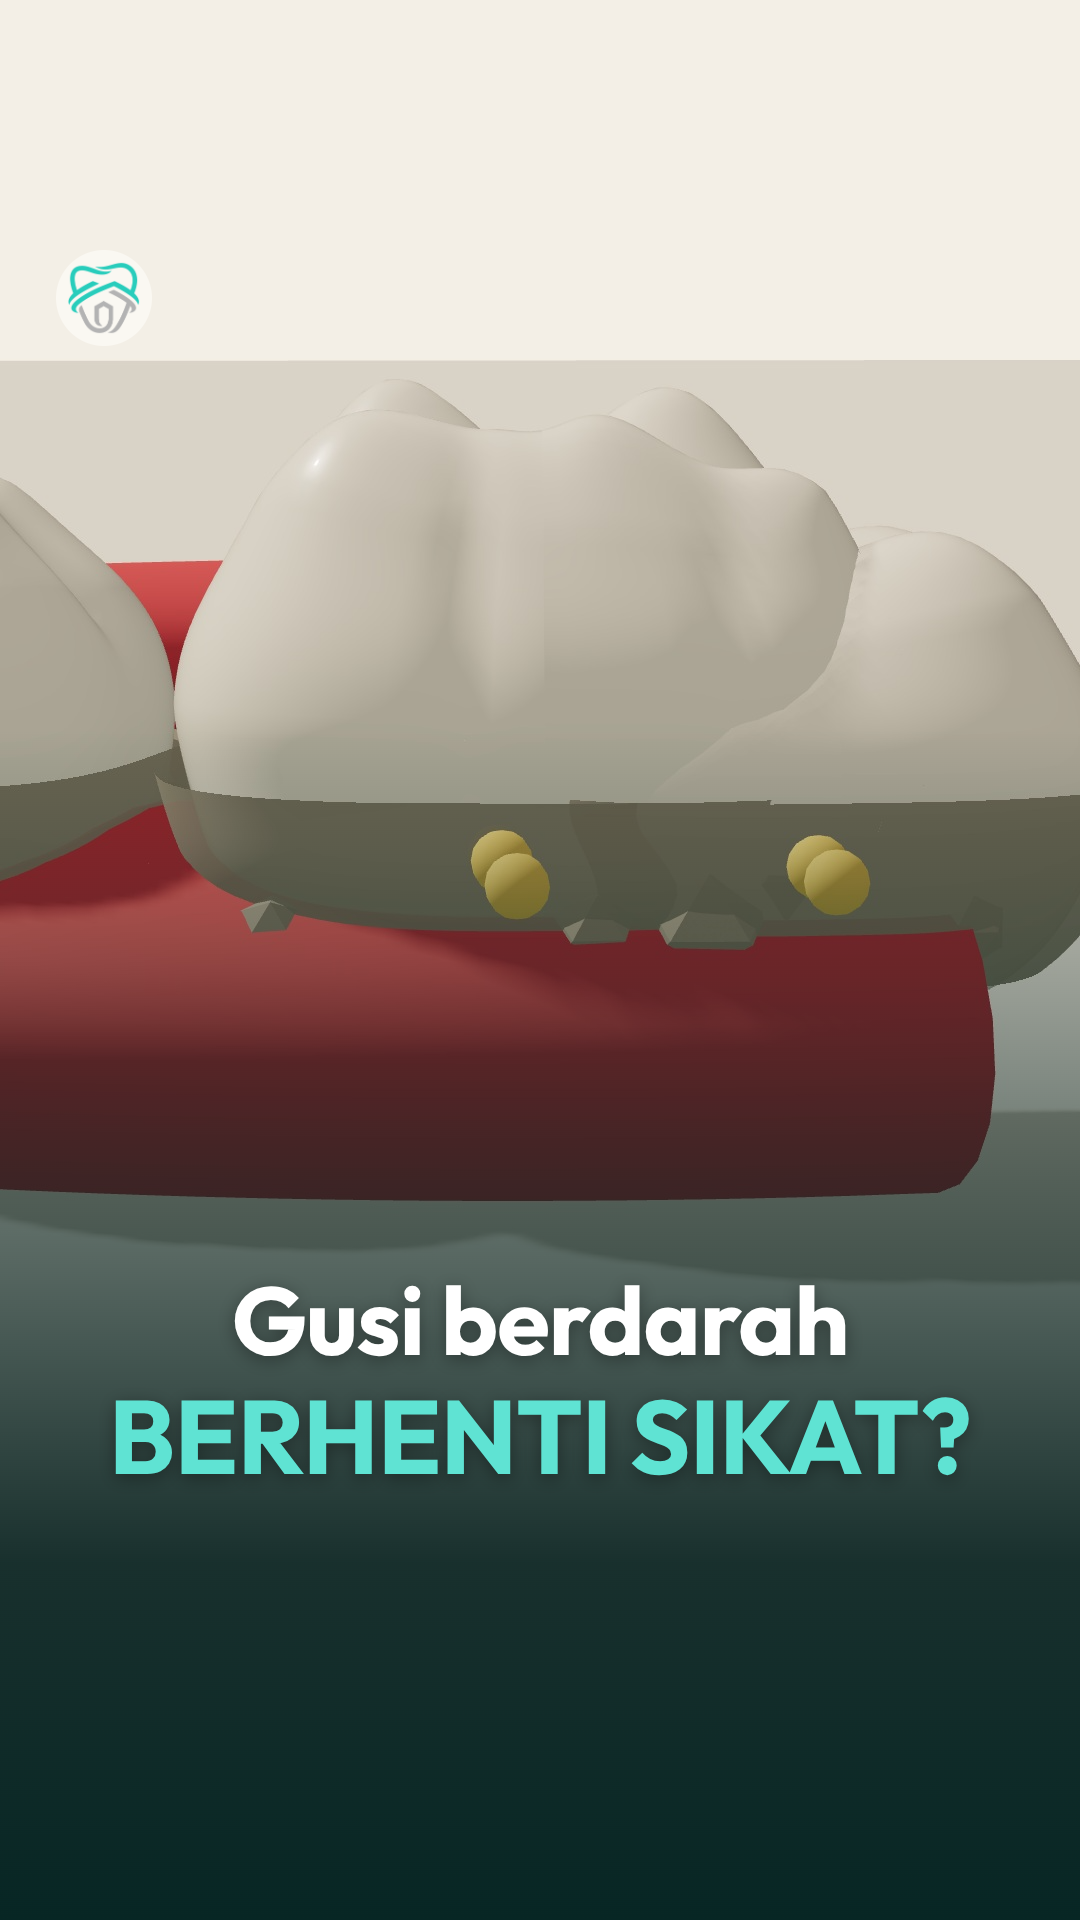
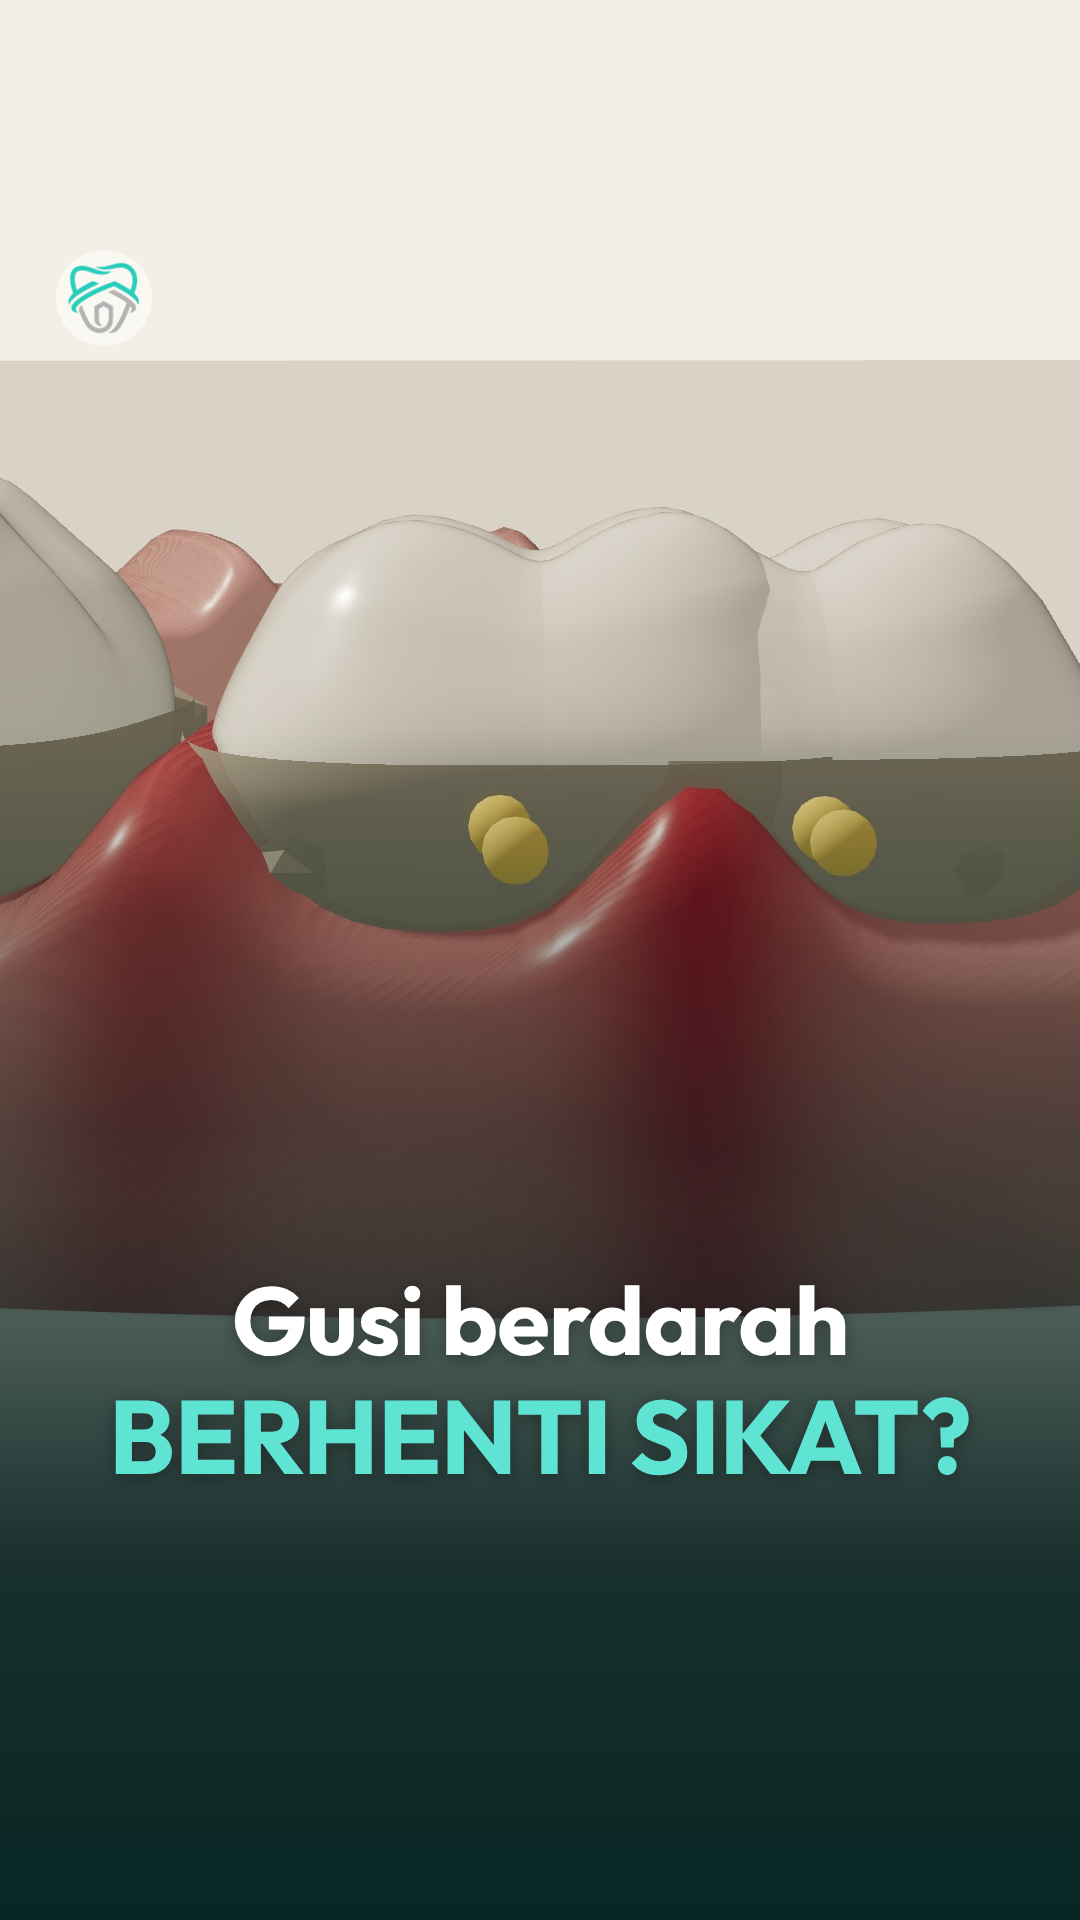
#05 v2 selesai: QC lulus, log
Claude-Session: https://claude.ai/code/session_016b8dWEsdGvtL7SNg39w4Un

Changed region(s): [[0.0, 0.1875, 1.0, 0.6875]]

diff --git a/.claude/skills/dalamgigi/SKILL.md b/.claude/skills/dalamgigi/SKILL.md
@@ -139,7 +139,7 @@ Unggah: sampul dari rol kamera, atur crop grid, tanpa musik, lokasi Makassar, ja
 | 02 | Lubang kecil "gua" | Lubang sekecil ini / KOK BISA SAKIT? | Enamel keras vs dentin lunak → asam (1×→5× ngemil) → pintu kecil gua besar → tanpa saraf/ngilu/sakit → 4 cara (cermin, fluoride, ngemil dikumpulkan, periksa 6 bulan) | ✅ Terbit |
 | 03 | Gigi hilang, efek domino | Satu gigi hilang / GIGI LAIN IKUT GESER? | 1 dicabut → 3 terdampak; analogi rak buku; tetangga miring, lawan turun; 3 cara (jangan buru-buru cabut/saluran akar, gigi pengganti, sikat sela) | ⏭ Dilewati (kurang materi), arsip; bisa diolah ulang |
 | 04 | Sakit gigi hilang | Sakit gigi hilang / BERARTI SEMBUH? | Lanjutan #02: 4 tahap (lubang → saraf radang, analogi jari terjepit cincin → saraf mati, dikira sembuh → nanah, gusi bengkak) → 3 cara + tanda bahaya → **CTA "mau dibahas apa lagi?" + follow** | ✅ Terbit 18 Nov |
-| 05 | Gusi berdarah | Gusi berdarah / BERHENTI SIKAT? | Sisa makanan → plak (jam) → mineral air liur → karang (analogi kerak teko) → karang kasar, gusi meradang, berdarah → sikat miring, benang, scaling, 1–2 minggu → CTA. Ilustrasi M1 bawah | 🎬 v1 jadi (74,6 dtk), QC lulus |
+| 05 | Gusi berdarah | Gusi berdarah / BERHENTI SIKAT? | Sisa makanan → plak (jam) → mineral air liur → karang (analogi kerak teko) → karang kasar, gusi meradang, berdarah → sikat miring, benang, scaling, 1–2 minggu → CTA. Ilustrasi M1 bawah, gusi bergelombang | 🎬 v2 jadi (74,6 dtk), QC lulus |
 | 06 | Behel menggeser gigi | Gimana behel / MENGGESER GIGI? | "Jawaban gampangnya: tarik. Tapi gigi tertanam di tulang…" (tulang dibongkar di satu sisi, dibangun di sisi lain) | Ide (berikutnya bila tak ada request) |
 | 07 | Ngilu kena dingin | Kenapa gigi / NGILU KENA DINGIN? | Saluran halus di lapisan dalam; penyebab bisa macam-macam | Ide |
 | 08 | 365 cangkir kopi | Setahun 365 cangkir / GIGIMU IKUT NGOPI? | Noda menempel lalu meresap; permukaan vs lapisan dalam | Ide |
@@ -163,7 +163,7 @@ Isi dari komentar "mau dibahas apa lagi?". Topik dengan peminta terbanyak diprio
 | 02 | ±17 Nov 2026 (terbit) | `dalamgigi-02-lubang-gua-v1.mp4` (72 dtk, QC lulus) | `cover-lubang-a.png` | Caption `output/dalamgigi-02-caption.md`. Validasi tambahan: "mulai ngilu saat sampai dentin" |
 | 03 | ⏭ DILEWATI (keputusan Pak Dir 18 Nov: "kurang materinya") | `dalamgigi-03-efek-domino-v1.mp4` (69 dtk, QC lulus) | `cover-domino-a.png` | Caption `output/dalamgigi-03-caption.md`. Asumsi: definisi saluran akar, gigi pengganti tanpa sebut jenis |
 | 04 | 18 Nov 2026 (terbit) | `dalamgigi-04-sakit-hilang-v1.mp4` (75,5 dtk, QC lulus) | `cover-sakit-a.png` | Caption `output/dalamgigi-04-caption.md` (+ balasan admin). CTA request topik |
-| 05 | (belum diunggah) | `dalamgigi-05-gusi-berdarah-v1.mp4` (74,6 dtk, QC lulus) | `cover-gusi-a.png` | Caption `output/dalamgigi-05-caption.md` (+ balasan admin). Ilustrasi M1 bawah |
+| 05 | (belum diunggah) | `dalamgigi-05-gusi-berdarah-v2.mp4` (74,6 dtk, QC lulus; v1 diganti: geraham simetris, gusi bergelombang, papan v5 di-OK) | `cover-gusi-a.png` | Caption `output/dalamgigi-05-caption.md` (+ balasan admin). Ilustrasi M1 bawah |
 
 Naskah + hasil audit per konten (di `ruma-dental-video/references/`): #01 `naskah-scaling-160.md`, #02 `naskah-lubang-gua-02.md`, #03 `naskah-domino-03.md`, #04 `naskah-sakit-04.md`, #05 `naskah-gusi-05.md`. Rencana dan caption #01: `rencana-konten-dalamgigi.md`.
 File video tidak masuk Git (sesi cloud sementara): selalu ingatkan Pak Dir mengunduh.
